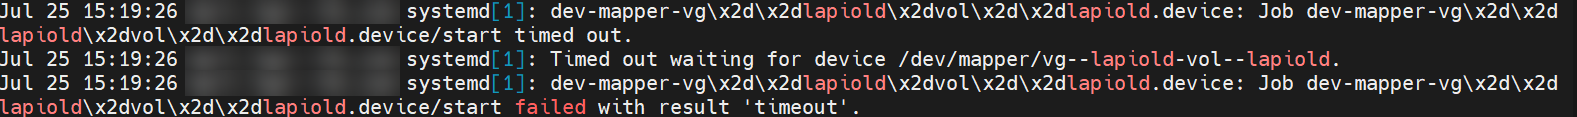
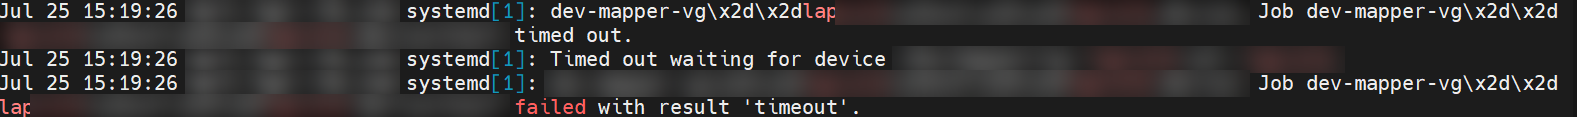
Redact org-specific volume names from fstab article and screenshots

diff --git a/src/content/blog/emergency-mode-fstab-lama.md b/src/content/blog/emergency-mode-fstab-lama.md
@@ -67,14 +67,16 @@ journalctl -xb
 Lalu cari error yang merujuk ke device yang gagal. Di case saya ketemu ini:
 
 ```
-systemd[1]: dev-mapper-vg\x2dlapiold\x2dvol\x2dlapiold.device: Job ... start timed out.
-systemd[1]: Timed out waiting for device /dev/mapper/vg--lapiold-vol--lapiold.
-systemd[1]: dev-mapper-vg\x2dlapiold\x2dvol\x2dlapiold.device: Job ... failed with result 'timeout'.
+systemd[1]: dev-mapper-vg\x2d\x2dvol\x2d\x2dold.device: Job ... start timed out.
+systemd[1]: Timed out waiting for device /dev/mapper/vg--vol--old.
+systemd[1]: dev-mapper-vg\x2d\x2dvol\x2d\x2dold.device: Job ... failed with result 'timeout'.
 ```
 
-![Error journalctl merujuk ke device lapiold](/images/fstab-emergency/step3.png)
+*(nama device di screenshot saya samarkan jadi generik — di case asli namanya berbeda)*
 
-Nah, `lapiold` ini nama volume LVM lama yang sudah di-detach. `\x2d` itu cuma escape systemd untuk karakter `-` (tanda hubung), jadi jangan bingung bacanya.
+![Error journalctl merujuk ke device lama](/images/fstab-emergency/step3.png)
+
+Nah, device `vol--old` ini nama volume LVM lama yang sudah di-detach. `\x2d` itu cuma escape systemd untuk karakter `-` (tanda hubung), jadi jangan bingung bacanya.
 
 ### 3. Konfirmasi bahwa device-nya memang sudah tidak ada
 
@@ -89,10 +91,10 @@ lsblk            # untuk melihat semua block device
 Di case saya, fstab masih memuat baris:
 
 ```
-/dev/mapper/vg--lapiold-vol--lapiold    /datalama    ext4    rw,relatime    0    0
+/dev/mapper/vg--vol--old    /datalama    ext4    rw,relatime    0    0
 ```
 
-...tapi `lvdisplay` dan `lsblk` tidak lagi menunjukkan volume `lapiold`. Valid — ini memang sisa konfigurasi lama.
+...tapi `lvdisplay` dan `lsblk` tidak lagi menunjukkan volume tersebut. Valid — ini memang sisa konfigurasi lama.
 
 ![Entry fstab yang menunjuk volume lama](/images/fstab-emergency/step4.png)
 
